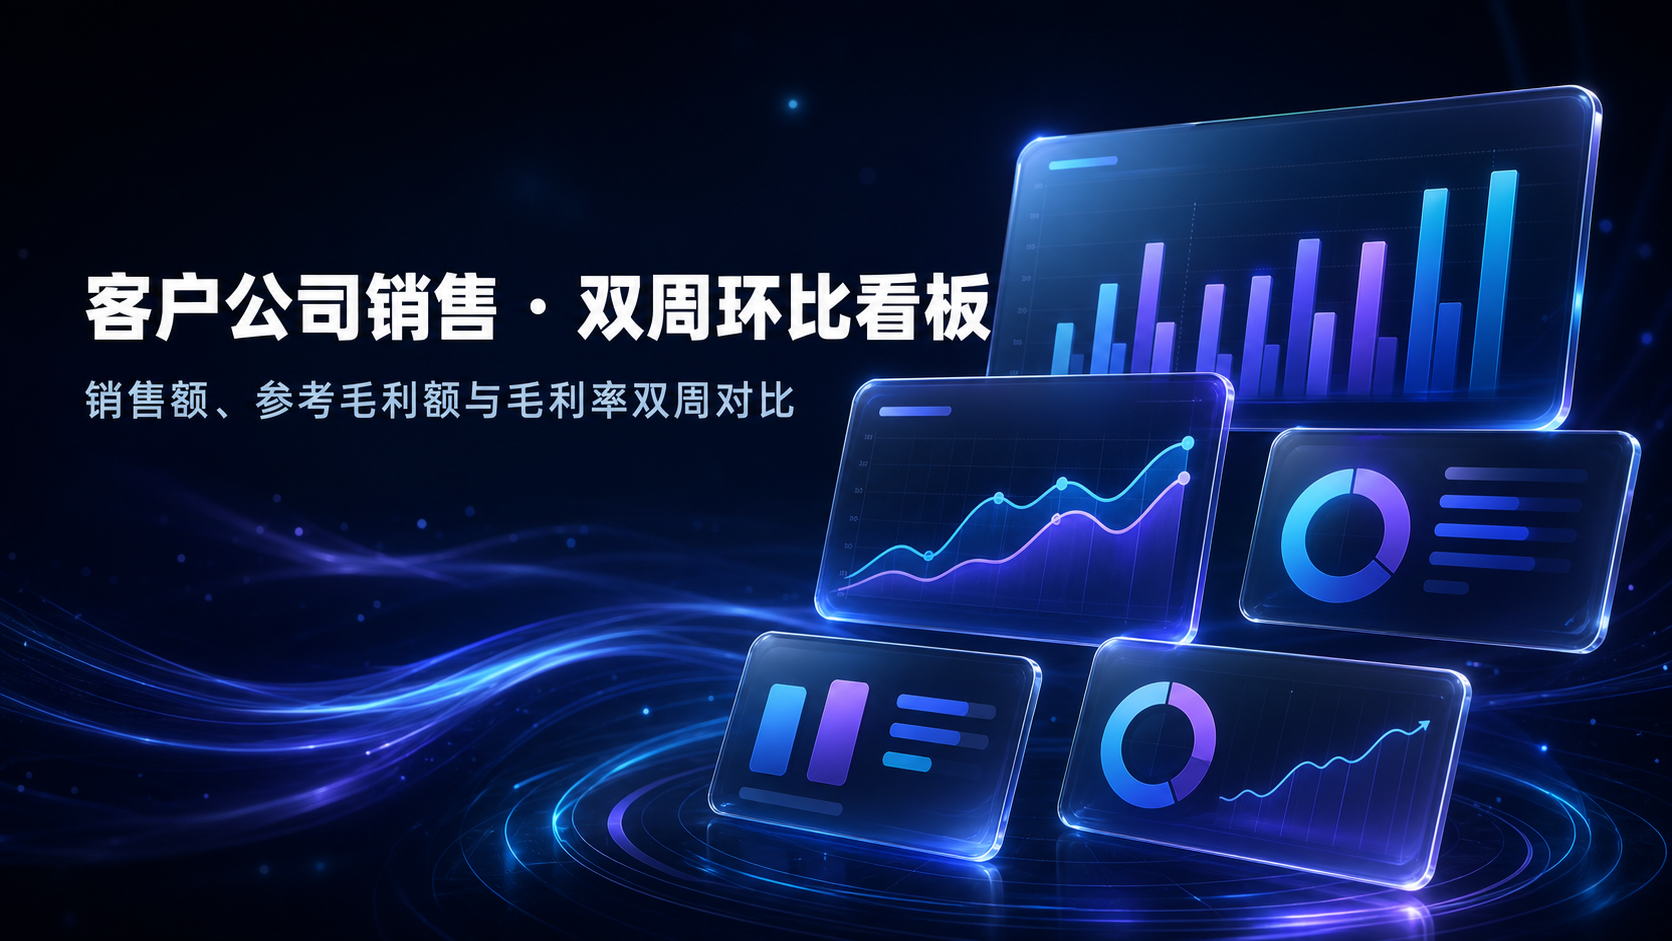
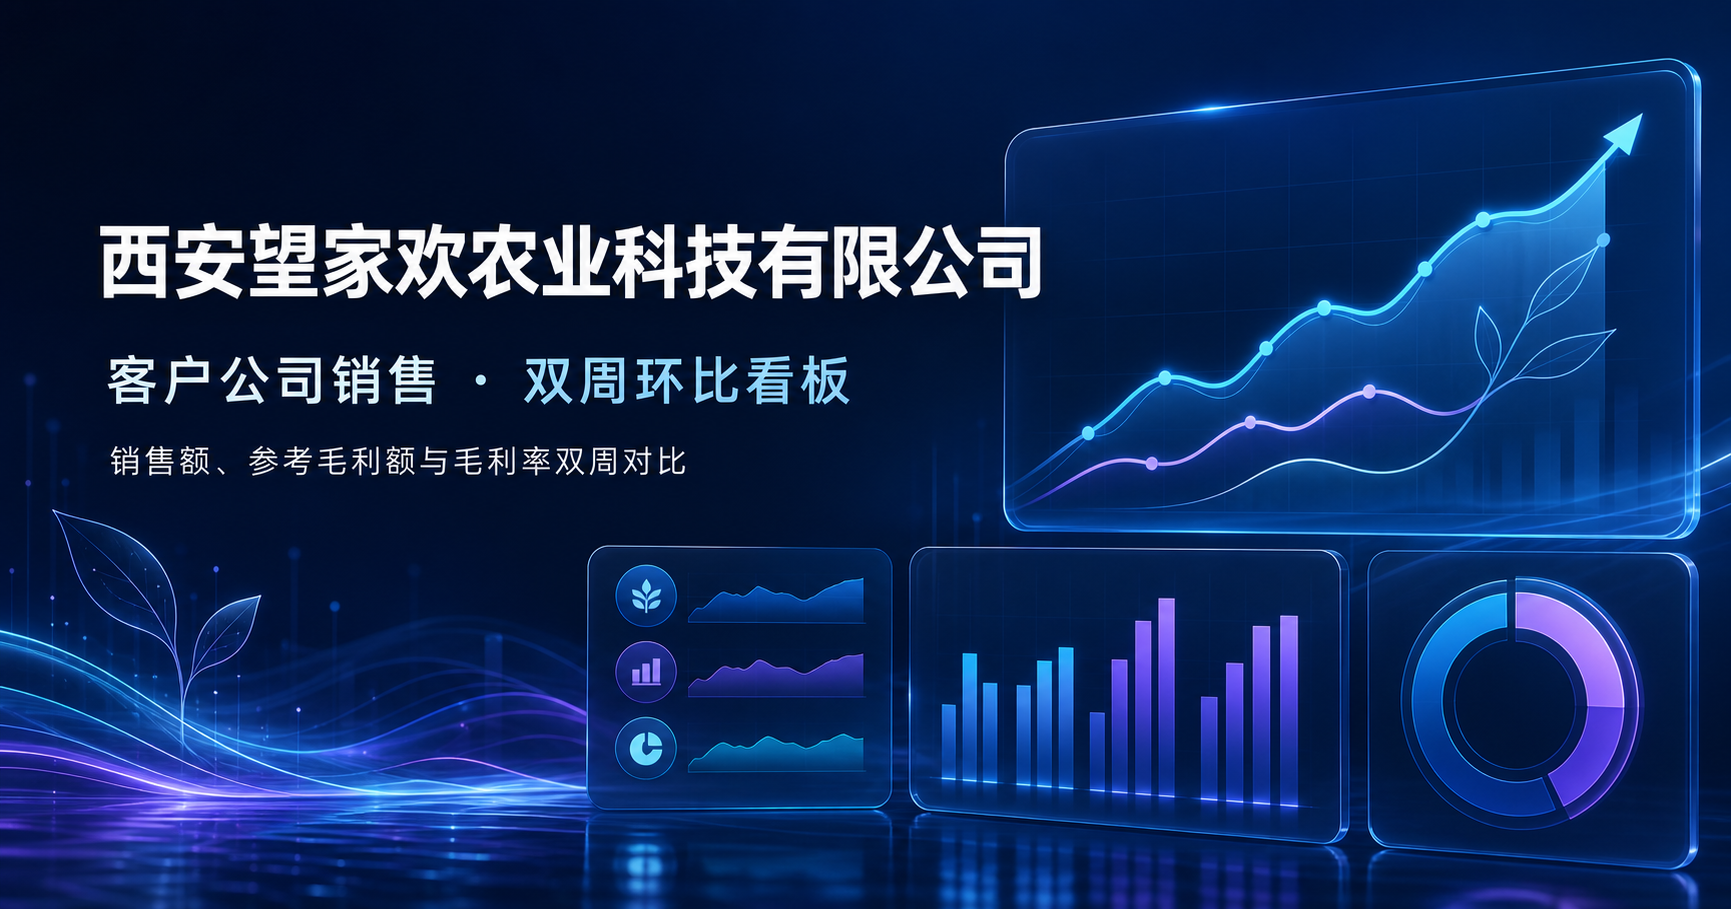
Add company branding and reorder margin charts

diff --git a/app/page.tsx b/app/page.tsx
@@ -122,7 +122,7 @@ export default function Home() {
     </div>
     <div className="dashboard-wrap">
     <header className="dashboard-header">
-      <div><p className="eyebrow">AI-POWERED SALES INTELLIGENCE</p><h1>客户公司销售 · 双周环比看板</h1><p className="subtitle">按「客户公司」维度汇总 · 销售额与毛利率环比 · 点击公司行可下钻下属客户</p></div>
+      <div><p className="eyebrow">西安望家欢农业科技有限公司</p><h1>客户公司销售 · 双周环比看板</h1><p className="subtitle">按「客户公司」维度汇总 · 销售额与毛利率环比 · 点击公司行可下钻下属客户</p></div>
       <div className="header-controls">
         <div className="period-chip"><span>对比周期</span><strong>08-07 ~ 08-13</strong><i>→</i><strong>08-14 ~ 08-20</strong></div>
         <div className="background-switcher" aria-label="切换动态背景">
@@ -143,9 +143,9 @@ export default function Home() {
       <SectionTitle note="销售规模、毛利率波动与高低位公司一屏对比">公司销售与毛利率可视化</SectionTitle>
       <div className="chart-grid">
         <article className="chart-card chart-wide"><div className="chart-heading"><h3>销售额 TOP 8</h3><div className="legend"><span><i className="old" />上周</span><span><i className="current" />本周</span></div></div><SalesChart /></article>
-        <article className="chart-card"><div className="chart-heading"><h3>毛利率波动聚焦</h3><small>百分点</small></div><MarginDeltaChart /></article>
-        <article className="chart-card"><div className="chart-heading"><h3>本周毛利率最高 Top 10</h3><small className="rank-green">高位</small></div><MarginRank high /></article>
+        <article className="chart-card chart-wide"><div className="chart-heading"><h3>毛利率波动聚焦</h3><small>百分点</small></div><MarginDeltaChart /></article>
         <article className="chart-card"><div className="chart-heading"><h3>本周毛利率最低 Top 10</h3><small className="rank-red">低位</small></div><MarginRank high={false} /></article>
+        <article className="chart-card"><div className="chart-heading"><h3>本周毛利率最高 Top 10</h3><small className="rank-green">高位</small></div><MarginRank high /></article>
       </div>
     </section>
 

diff --git a/app/layout.tsx b/app/layout.tsx
@@ -5,19 +5,19 @@ import './globals.css';
 const geistSans = Geist({ variable: '--font-geist-sans', subsets: ['latin'] });
 
 export const metadata: Metadata = {
-  title: '客户公司销售双周环比看板',
+  title: '西安望家欢农业科技有限公司｜客户公司销售双周环比看板',
   description: '按客户公司维度汇总销售额、参考毛利额与毛利率变化。',
   openGraph: {
-    title: '客户公司销售 · 双周环比看板',
+    title: '西安望家欢农业科技有限公司｜客户公司销售 · 双周环比看板',
     description: '销售额、参考毛利额与毛利率双周对比',
     type: 'website',
     images: process.env.SITE_ORIGIN
-      ? [{ url: new URL('/og.png', process.env.SITE_ORIGIN).toString(), width: 1672, height: 941, alt: '客户公司销售双周环比看板' }]
+      ? [{ url: new URL('/og.png', process.env.SITE_ORIGIN).toString(), width: 1731, height: 909, alt: '西安望家欢农业科技有限公司客户公司销售双周环比看板' }]
       : [],
   },
   twitter: {
     card: 'summary_large_image',
-    title: '客户公司销售 · 双周环比看板',
+    title: '西安望家欢农业科技有限公司｜客户公司销售 · 双周环比看板',
     description: '销售额、参考毛利额与毛利率双周对比',
     images: process.env.SITE_ORIGIN ? [new URL('/og.png', process.env.SITE_ORIGIN).toString()] : [],
   },
